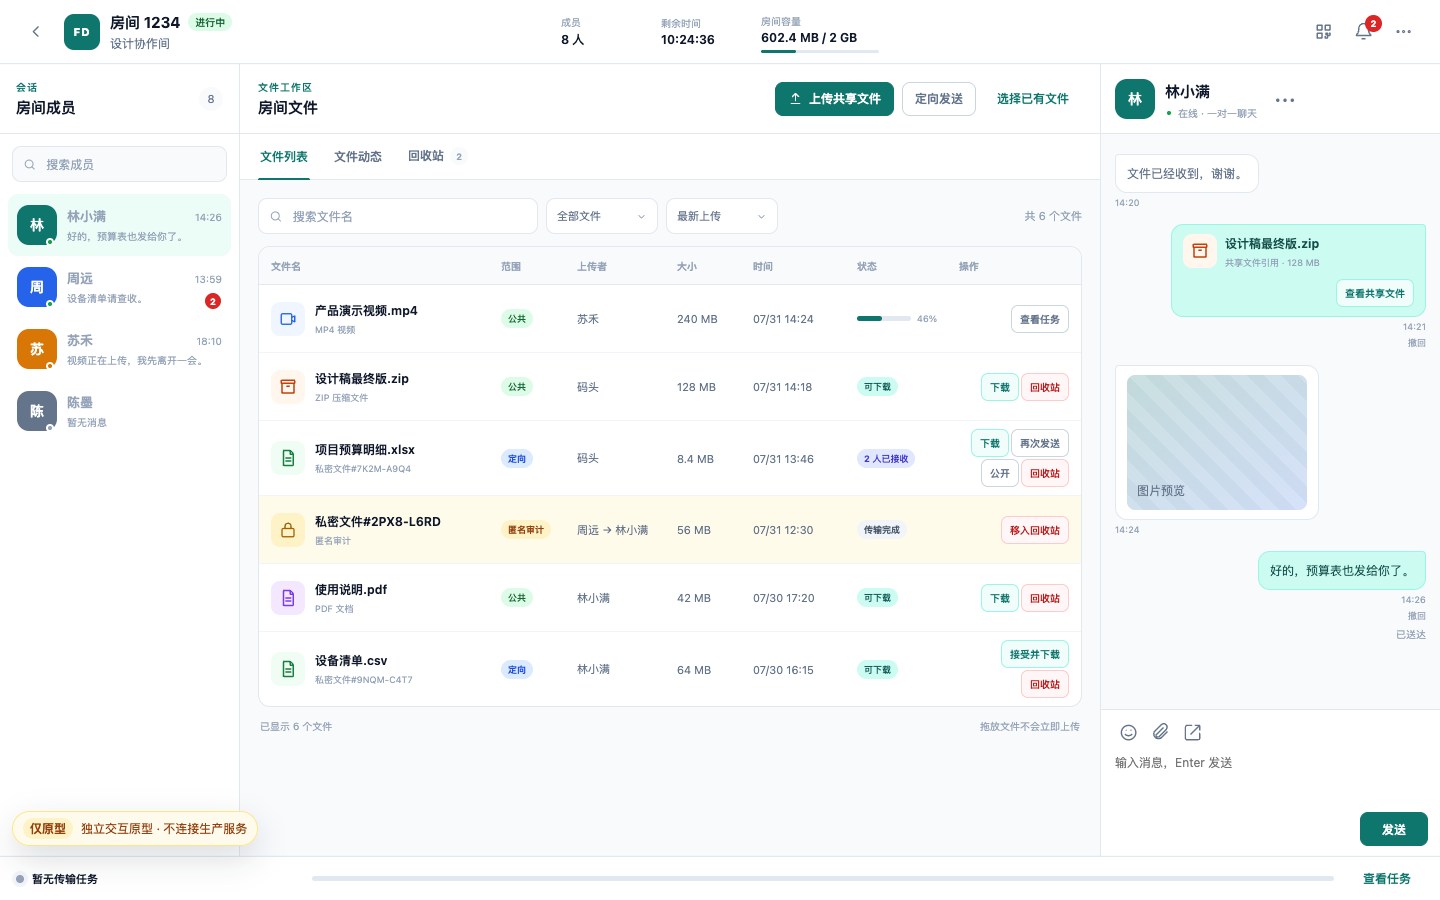
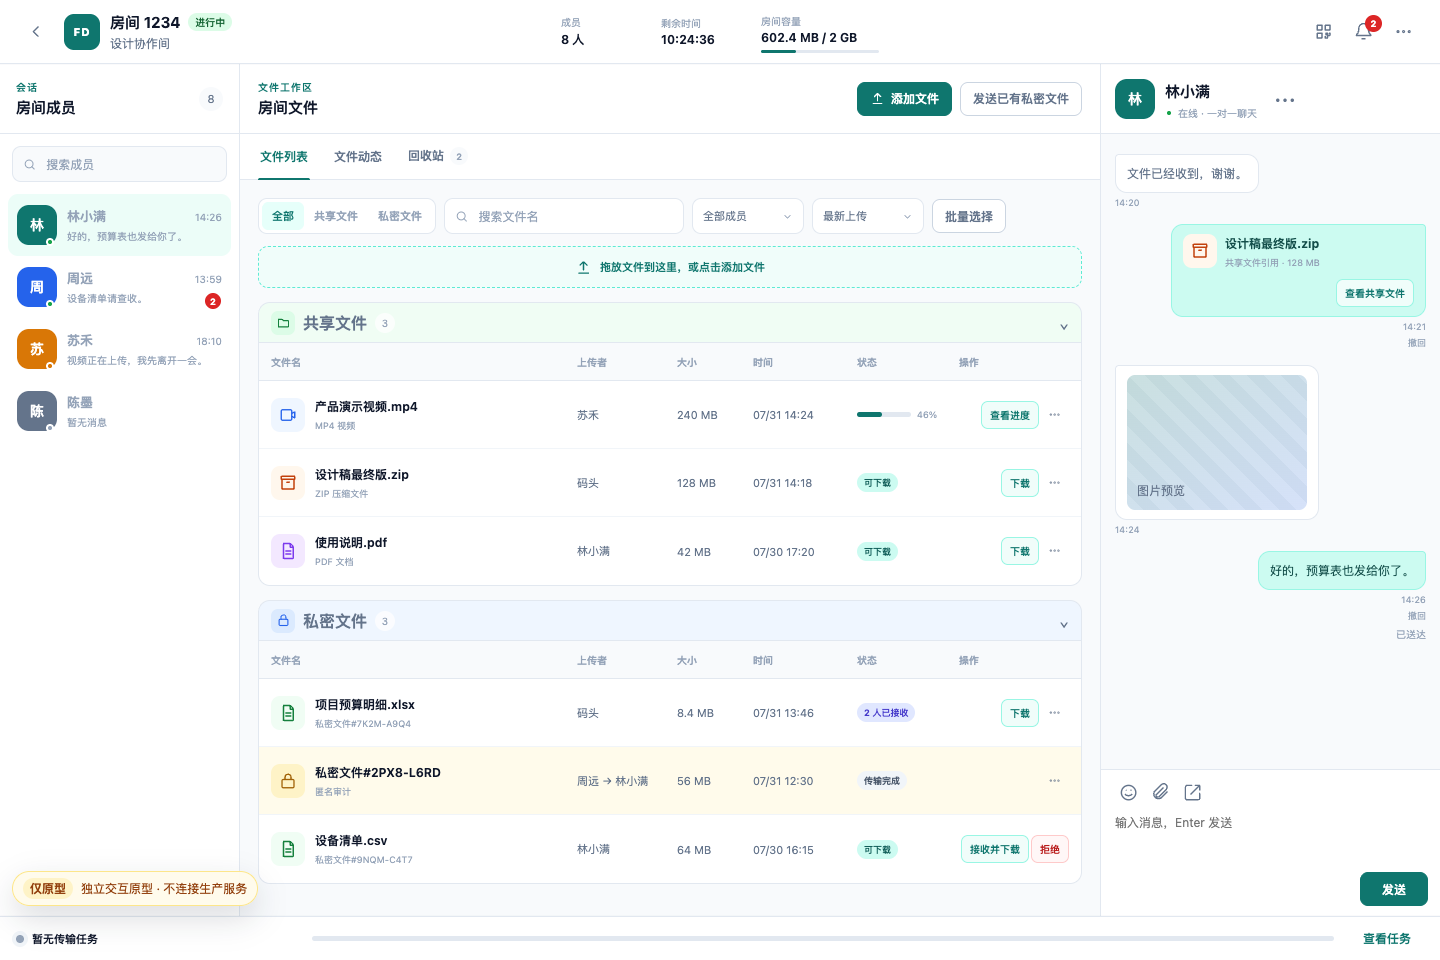
feat(prototype): 完成双语无障碍与三端验收

diff --git a/examples/room-workspace-prototype/js/i18n.js b/examples/room-workspace-prototype/js/i18n.js
@@ -11,8 +11,9 @@ const zh = {
   addEmoji: "添加表情", sendPrivateFile: "发送私密文件", referenceShared: "引用共享文件", recall: "撤回", recalledSelf: "你撤回了一条消息", recalledPeer: "对方撤回了一条消息",
   read: "已读", delivered: "已送达", sending: "发送中", sendFailed: "发送失败", imagePreview: "图片预览", sharedReference: "共享文件引用", viewShared: "查看共享文件",
   noChatTitle: "暂无消息", noChatText: "发送文字或引用共享文件开始对话。", backFiles: "返回文件", switchMember: "切换成员",
-  searchFiles: "搜索文件名", all: "全部", fileScope: "文件范围", currentRoomFiles: "当前房间文件", allFiles: "全部文件", sharedFiles: "共享文件", directFiles: "私密文件", identityFilter: "身份筛选", allMembers: "全部成员", uploadedByMe: "我上传的", sentToMe: "发给我的", batchSelect: "批量选择",
+  searchFiles: "搜索文件名", all: "全部", fileScope: "文件范围", currentRoomFiles: "当前房间文件", allFiles: "全部文件", sharedFiles: "共享文件", directFiles: "私密文件", identityFilter: "身份筛选", allMembers: "全部成员", uploader: "上传者", uploadedByMe: "我上传的", sentToMe: "发给我的", batchSelect: "批量选择",
   batchActions: "批量操作", selectedCount: "已选 {{count}} 个", batchDownload: "批量下载", batchPrivateSend: "私密发送", exitBatch: "退出批量", selectFile: "选择 {{name}}", no_selection: "请先选择文件", contains_unavailable_file: "所选文件中包含不可下载项", contains_non_reusable_private_file: "私密发送仅支持自己上传且可复用的私密文件", nextSelectRecipients: "下一步：选择接收者",
+  hiddenSelectionPrompt: "切换后部分已选文件会隐藏。确定保留隐藏选择；取消则清空选择。", batchDownloadStarted: "已开始批量接收", declinedToast: "已拒绝接收该私密文件",
   newest: "最新上传", oldest: "最早上传", sizeAsc: "大小升序", sizeDesc: "大小降序", noMatchingFiles: "没有符合条件的文件", shownFiles: "已显示 {{count}} 个文件",
   dropHint: "拖放文件不会立即上传", dropStrip: "拖放文件到这里，或点击添加文件", dropTitle: "释放文件到待发送区", dropText: "松手后仍需确认范围和接收者", timelineVisible: "{{count}} 条可见记录 · 最新优先", loadEarlier: "加载更早记录",
   recycleRetention: "文件保留至房间销毁", actualSize: "实际大小 {{size}}", chargedSize: "计费 {{size}}", recycleEmpty: "回收站为空", restore: "恢复", requestRestore: "申请恢复", requested: "已申请", approveRestore: "批准恢复", permanentDelete: "永久删除", publish: "公开", receivedCount: "{{count}} 人已接收",
@@ -21,7 +22,7 @@ const zh = {
   referenceTitle: "引用共享文件", noCapacityIncrease: "只发送引用，不增加容量", ownerManagement: "房主管理", joinRequests: "加入申请", close: "关闭", approve: "同意", reject: "拒绝",
   demo: "原型演示", demoOnly: "仅评审使用", role: "演示身份", owner: "房主", member: "普通成员", language: "语言", scenario: "页面场景", workspace: "正常工作区",
   recycleCounts: "回收站计入房间容量", freeRecycle: "回收站免费额度", injectEvent: "注入模拟事件", reset: "重置夹具", hideController: "隐藏控制器", openController: "打开原型演示控制器",
-  capacityDetails: "容量详情", sharedUsage: "公共文件", directUsage: "定向文件", reservedUsage: "上传预留", recycleActual: "回收站实际", recycleFree: "免费额度", recycleCharged: "回收站计费", totalUsed: "总占用", totalCapacity: "总容量", qrCode: "房间二维码", scanJoin: "使用同一局域网设备扫码加入", roomActions: "房间操作", roomDetails: "房间详情", extendRoom: "延长房间", dissolveRoom: "解散房间", leaveRoom: "退出房间", copyRoom: "复制房间号", copiedRoom: "房间号已复制",
+  capacityDetails: "容量详情", sharedUsage: "共享文件", directUsage: "私密文件", reservedUsage: "上传预留", recycleActual: "回收站实际", recycleFree: "免费额度", recycleCharged: "回收站计费", totalUsed: "总占用", totalCapacity: "总容量", qrCode: "房间二维码", scanJoin: "使用同一局域网设备扫码加入", roomActions: "房间操作", roomDetails: "房间详情", extendRoom: "延长房间", dissolveRoom: "解散房间", leaveRoom: "退出房间", copyRoom: "复制房间号", copiedRoom: "房间号已复制",
   joinFree: "免验证加入", pinJoin: "密码加入", approvalWait: "等待审批", dissolved: "房间已解散", kicked: "被移出房间", notFound: "房间不存在", loadError: "加载失败", emptyFiles: "空文件", emptyChat: "空聊天", emptyRecycle: "空回收站",
 };
 
@@ -38,8 +39,9 @@ const en = {
   addEmoji: "Add emoji", sendPrivateFile: "Send private file", referenceShared: "Reference shared file", recall: "Recall", recalledSelf: "You recalled a message", recalledPeer: "The other member recalled a message",
   read: "Read", delivered: "Delivered", sending: "Sending", sendFailed: "Failed", imagePreview: "Image preview", sharedReference: "Shared file reference", viewShared: "View shared file",
   noChatTitle: "No messages", noChatText: "Send text or reference a shared file to start.", backFiles: "Back to files", switchMember: "Switch member",
-  searchFiles: "Search files", all: "All", fileScope: "File scope", currentRoomFiles: "Current room files", allFiles: "All files", sharedFiles: "Shared files", directFiles: "Private files", identityFilter: "Identity filter", allMembers: "All members", uploadedByMe: "Uploaded by me", sentToMe: "Sent to me", batchSelect: "Select",
+  searchFiles: "Search files", all: "All", fileScope: "File scope", currentRoomFiles: "Current room files", allFiles: "All files", sharedFiles: "Shared files", directFiles: "Private files", identityFilter: "Identity filter", allMembers: "All members", uploader: "Uploader", uploadedByMe: "Uploaded by me", sentToMe: "Sent to me", batchSelect: "Select",
   batchActions: "Batch actions", selectedCount: "{{count}} selected", batchDownload: "Download selected", batchPrivateSend: "Send privately", exitBatch: "Exit selection", selectFile: "Select {{name}}", no_selection: "Select at least one file", contains_unavailable_file: "The selection contains files you cannot download", contains_non_reusable_private_file: "Private send only supports reusable private files uploaded by you", nextSelectRecipients: "Next: select recipients",
+  hiddenSelectionPrompt: "Some selected files will be hidden. OK keeps hidden selections; Cancel clears them.", batchDownloadStarted: "Batch download started", declinedToast: "Private file declined",
   newest: "Newest", oldest: "Oldest", sizeAsc: "Size: low to high", sizeDesc: "Size: high to low", noMatchingFiles: "No matching files", shownFiles: "Showing {{count}} files",
   dropHint: "Dropping files never uploads immediately", dropStrip: "Drop files here, or click to add files", dropTitle: "Drop files into pending area", dropText: "Scope and recipients still require confirmation", timelineVisible: "{{count}} visible events · Newest first", loadEarlier: "Load earlier events",
   recycleRetention: "Files remain until room destruction", actualSize: "Actual {{size}}", chargedSize: "Charged {{size}}", recycleEmpty: "Recycle Bin is empty", restore: "Restore", requestRestore: "Request restore", requested: "Requested", approveRestore: "Approve restore", permanentDelete: "Delete permanently", publish: "Publish", receivedCount: "Received by {{count}}",

diff --git a/examples/room-workspace-prototype/js/app.js b/examples/room-workspace-prototype/js/app.js
@@ -1,5 +1,6 @@
 import { canRestoreFile } from "./capacity.js";
 import { getDefaultComposerMode } from "./file-list.js";
+import { translate } from "./i18n.js";
 import { renderModel } from "./render.js";
 import { createStore } from "./state.js";
 
@@ -29,7 +30,7 @@ document.addEventListener("click", (event) => {
   }
   const target = event.target.closest("[data-action]");
   if (!target || target.disabled) return;
-  if (["open-upload", "open-direct", "open-existing", "open-file-actions", "open-members", "open-requests", "open-shared-reference", "show-capacity", "show-qr", "show-room-menu"].includes(target.dataset.action)) {
+  if (["open-upload", "open-direct", "open-existing", "open-file-actions", "open-reject-confirm", "open-members", "open-requests", "open-shared-reference", "show-capacity", "show-qr", "show-room-menu"].includes(target.dataset.action)) {
     lastOverlayTrigger = target;
   }
   handleAction(target.dataset.action, target);
@@ -54,7 +55,7 @@ document.addEventListener("keydown", (event) => {
   if (event.key === "Escape") {
     const state = store.getState();
     if (state.ui.composer) store.dispatch({ type: "ui/close-composer" });
-    else if (state.ui.openFileMenuId || state.ui.actionSheetFileId || state.ui.rejectFileId) store.dispatch({ type: "ui/close-file-overlays" });
+    else if (state.ui.openFileMenuId || state.ui.actionSheetFileId || state.ui.rejectFileId) closeOverlay("ui/close-file-overlays");
     else if (state.ui.modal) store.dispatch({ type: "ui/close-modal" });
     else if (state.ui.drawer) store.dispatch({ type: "ui/close-drawer" });
   }
@@ -70,6 +71,22 @@ document.addEventListener("keydown", (event) => {
     next.focus();
     store.dispatch({ type: "ui/set-tab", value: next.dataset.tab });
   }
+  if (event.target.matches('.file-scope-switch [role="radio"]') && (event.key === "ArrowLeft" || event.key === "ArrowRight")) {
+    event.preventDefault();
+    const scopes = [...document.querySelectorAll('.file-scope-switch [role="radio"]')];
+    const offset = event.key === "ArrowRight" ? 1 : -1;
+    const next = scopes[(scopes.indexOf(event.target) + offset + scopes.length) % scopes.length];
+    store.dispatch({ type: "ui/set-file-scope-view", value: next.dataset.scope });
+    window.setTimeout(() => document.querySelector(`.file-scope-switch [data-scope="${next.dataset.scope}"]`)?.focus(), 0);
+  }
+  if (event.target.closest('[role="menu"]') && ["ArrowDown", "ArrowUp", "Home", "End"].includes(event.key)) {
+    event.preventDefault();
+    const items = [...event.target.closest('[role="menu"]').querySelectorAll('[role="menuitem"]')];
+    const current = items.indexOf(event.target);
+    const index = event.key === "Home" ? 0 : event.key === "End" ? items.length - 1 : (current + (event.key === "ArrowDown" ? 1 : -1) + items.length) % items.length;
+    items[index]?.focus();
+  }
+  trapOverlayFocus(event);
 });
 
 document.addEventListener("change", (event) => {
@@ -156,22 +173,30 @@ function handleAction(action, target) {
       eventId: uniqueId("event"),
     }));
     store.dispatch({ type: "ui/exit-batch-mode" });
-    return showToast(localized(state, "已开始批量接收", "Batch download started"));
+    return showToast(translate(state.ui.language, "batchDownloadStarted"));
   }
   if (action === "batch-private-send") {
     return store.dispatch({ type: "ui/open-composer", mode: "direct", existingFileIds: [...state.ui.selectedFileIds] });
   }
   if (action === "open-file-actions") {
-    if (window.innerWidth < 768) return store.dispatch({ type: "ui/open-action-sheet", value: target.dataset.fileId });
+    if (window.innerWidth < 768) {
+      store.dispatch({ type: "ui/open-action-sheet", value: target.dataset.fileId });
+      return focusFirstOverlayControl();
+    }
     const value = state.ui.openFileMenuId === target.dataset.fileId ? null : target.dataset.fileId;
-    return store.dispatch({ type: "ui/open-file-menu", value });
+    store.dispatch({ type: "ui/open-file-menu", value });
+    if (value) window.setTimeout(() => document.querySelector('.file-action-menu [role="menuitem"]')?.focus(), 0);
+    return;
   }
   if (action === "close-file-overlays") return closeOverlay("ui/close-file-overlays");
-  if (action === "open-reject-confirm") return store.dispatch({ type: "ui/open-reject-confirm", value: target.dataset.fileId });
+  if (action === "open-reject-confirm") {
+    store.dispatch({ type: "ui/open-reject-confirm", value: target.dataset.fileId });
+    return focusFirstOverlayControl();
+  }
   if (action === "confirm-decline") {
     store.dispatch({ type: "files/decline", fileId: target.dataset.fileId, ...common });
     store.dispatch({ type: "ui/close-file-overlays" });
-    return showToast(localized(state, "已拒绝接收该私密文件", "Private file declined"));
+    return showToast(translate(state.ui.language, "declinedToast"));
   }
   if (action === "file-menu-action") {
     store.dispatch({ type: "ui/close-file-overlays" });
@@ -295,7 +320,7 @@ function resolveHiddenBatchSelection(isVisible) {
   if (!state.ui.batchMode || !state.ui.selectedFileIds.length) return;
   const hidden = state.files.some((file) => state.ui.selectedFileIds.includes(file.id) && !isVisible(file));
   if (!hidden) return;
-  const preserve = window.confirm(localized(state, "切换后部分已选文件会隐藏。确定保留隐藏选择；取消则清空选择。", "Some selected files will be hidden. OK keeps hidden selections; Cancel clears them."));
+  const preserve = window.confirm(translate(state.ui.language, "hiddenSelectionPrompt"));
   if (!preserve) store.dispatch({ type: "ui/set-file-selection", value: [] });
 }
 
@@ -450,6 +475,27 @@ function formatCompactBytes(bytes) {
 }
 
 function closeOverlay(type) {
+  const action = lastOverlayTrigger?.dataset.action;
+  const fileId = lastOverlayTrigger?.dataset.fileId;
   store.dispatch({ type });
-  window.setTimeout(() => lastOverlayTrigger?.focus(), 0);
+  window.setTimeout(() => {
+    const selector = fileId ? `[data-action="${action}"][data-file-id="${fileId}"]` : action ? `[data-action="${action}"]` : null;
+    (selector ? document.querySelector(selector) : null)?.focus();
+  }, 0);
+}
+
+function focusFirstOverlayControl() {
+  window.setTimeout(() => document.querySelector('#auxiliary-root [role="dialog"] button, #auxiliary-root [role="alertdialog"] button')?.focus(), 0);
+}
+
+function trapOverlayFocus(event) {
+  if (event.key !== "Tab") return;
+  const overlay = document.querySelector('#auxiliary-root [role="dialog"], #auxiliary-root [role="alertdialog"], #prototype-overlay-root [role="dialog"]');
+  if (!overlay) return;
+  const controls = [...overlay.querySelectorAll('button:not([disabled]), input:not([disabled]), select:not([disabled]), textarea:not([disabled])')];
+  if (!controls.length) return;
+  const first = controls[0];
+  const last = controls.at(-1);
+  if (event.shiftKey && document.activeElement === first) { event.preventDefault(); last.focus(); }
+  else if (!event.shiftKey && document.activeElement === last) { event.preventDefault(); first.focus(); }
 }

diff --git a/examples/room-workspace-prototype/js/render.js b/examples/room-workspace-prototype/js/render.js
@@ -325,12 +325,12 @@ function renderTimelineEvent(event, state) {
   const name = file.visibility === "anonymous" ? t(state, "privateFile", { alias: file.alias }) : file.name;
   const labels = state.ui.language === "en" ? {
     upload_started: "started uploading", upload_completed: "uploaded", upload_progress: "is uploading", upload_failed: "upload failed",
-    direct_sent: "sent privately", resent: "sent again from history", download_started: "started receiving", download_completed: "completed transfer",
+    direct_sent: "sent privately", direct_declined: "declined", resent: "sent again from history", download_started: "started receiving", download_completed: "completed transfer",
     recycled: "moved to Recycle Bin", restore_requested: "requested restore", restored: "restored", restore_approved: "approved restore",
     permanently_deleted: "deleted permanently", published_shared: "published to shared files",
   } : {
     upload_started: "开始上传", upload_completed: "完成上传", upload_progress: "正在上传", upload_failed: "上传失败",
-    direct_sent: "定向发送", resent: "从历史文件再次发送", download_started: "开始接收", download_completed: "传输完成",
+    direct_sent: "私密发送", direct_declined: "拒绝接收", resent: "从历史文件再次发送", download_started: "开始接收", download_completed: "传输完成",
     recycled: "移入回收站", restore_requested: "申请恢复", restored: "恢复文件", restore_approved: "批准恢复",
     permanently_deleted: "永久删除", published_shared: "发布到共享目录",
   };
@@ -380,7 +380,7 @@ function renderCommonRow(file, state, permissions, actions) {
   const checkbox = state.ui.batchMode ? `<input class="file-select-checkbox" data-input="file-selection" data-file-id="${escapeHTML(file.id)}" type="checkbox" ${selected ? "checked" : ""} aria-label="${t(state, "selectFile", { name: displayName })}">` : "";
   return `<article class="file-row${anonymous ? " file-row--private-audit" : ""}${selected ? " is-selected" : ""}" role="row" data-file-id="${escapeHTML(file.id)}">
     <div class="file-cell file-cell--name" role="cell">${checkbox}<span class="file-icon file-icon--${escapeHTML(file.kind ?? "document")}">${fileIcon(file.kind)}</span><div><strong>${escapeHTML(displayName ?? "")}</strong><small>${escapeHTML(secondary ?? "")}</small><span class="scope-tag mobile-scope-tag scope-tag--${anonymous ? "private" : file.scope}">${t(state, anonymous ? "privateAudit" : file.scope)}</span></div></div>
-    <div class="file-cell file-cell--owner" role="cell">${escapeHTML(ownerLabel)}</div>
+    <div class="file-cell file-cell--owner" role="cell" data-label="${t(state, "uploader")}">${escapeHTML(ownerLabel)}</div>
     <div class="file-cell file-cell--size" role="cell">${formatBytes(file.sizeBytes)}</div>
     <div class="file-cell file-cell--time" role="cell">${formatTimestamp(file.recycledAt ?? file.createdAt, locale)}</div>
     <div class="file-cell file-cell--status" role="cell">${renderStatus(file, locale)}</div>

diff --git a/examples/room-workspace-prototype/styles.css b/examples/room-workspace-prototype/styles.css
@@ -2686,7 +2686,7 @@ button.member-item.is-active {
 
   .file-cell--owner::before {
     color: var(--color-text-muted);
-    content: "上传者：";
+    content: attr(data-label) ": ";
   }
 
   .mobile-file-actions {

diff --git a/examples/room-workspace-prototype/README.md b/examples/room-workspace-prototype/README.md
@@ -2,6 +2,8 @@
 
 用于评审新版房间工作区布局与业务可见性，不属于生产前端。对应规格：
 [docs/plan/2026-07-31-room-workspace-prototype.md](../../docs/plan/2026-07-31-room-workspace-prototype.md)。
+文件列表交互优化另见
+[docs/plan/2026-07-31-room-file-list-ux.md](../../docs/plan/2026-07-31-room-file-list-ux.md)。
 
 ## 隔离边界
 
@@ -30,12 +32,14 @@ bun test examples/room-workspace-prototype/tests
 
 ## 主要演示流程
 
-1. 点击“上传共享文件”或“定向发送”，选择文件后进入待发送区。
-2. 切换共享／定向范围；定向模式可选择多个接收者。
-3. 点击“选择已有文件”复用自己上传的私密文件，不重复增加容量。
-4. 在“文件列表／文件动态／回收站”间切换，演示下载、公开、回收、恢复与永久删除。
-5. 点击成员切换一对一聊天；支持文字、表情、私密文件和共享文件引用。
-6. 移动端默认展示文件；顶栏聊天入口打开全屏二级聊天页。
+1. 在“全部／共享文件／私密文件”间切换；全部视图可分别折叠两个文件分组。
+2. 点击“添加文件”或常驻拖放条，选择文件后再确认共享／私密范围与接收者。
+3. 点击“发送已有私密文件”，多选自己上传的文件和新接收者，不重复增加容量。
+4. 普通文件直接下载；低频操作位于三个点菜单；待接收私密文件直接接收或拒绝。
+5. 点击“批量选择”后跨组选择文件；全部文件共同满足权限时才可批量下载或私密发送。
+6. 在“文件列表／文件动态／回收站”间切换；任一视图均可拖入文件并在取消后返回原视图。
+7. 移动端三个点打开底部操作面板；进入批量模式后固定上传栏替换为批量操作栏。
+8. 点击成员切换一对一聊天；支持文字、表情、私密文件和共享文件引用。
 
 ## 原型演示控制器
 
@@ -56,7 +60,9 @@ bun test examples/room-workspace-prototype/tests
 - 私密文件仅发送者与接收者完整可见；无关普通成员完全不可见。
 - 房主对无关私密文件只看到稳定别名、参与者、大小、状态和时间，不能下载。
 - 文件列表、动态和回收站复用同一权限投影。
-- 房主容量详情含公共、私密、上传预留和回收站细分；普通成员只见总量。
+- 房主容量详情含共享、私密、上传预留和回收站细分；普通成员只见总量。
+- 默认文件列表不显示复选框；批量操作严格采用全部已选文件的共同权限。
+- 房主匿名私密投影只能按稳定编号搜索，隐藏原名不会命中搜索。
 - 回收站计入时免费额度无效；不计入时只有超出免费额度部分占房间容量。
 - 房主强制回收的文件由上传者申请恢复；房主审批；恢复前检查容量。
 - 已读与下载状态分离；页面隐藏时不自动标记聊天已读。
@@ -83,6 +89,7 @@ room-workspace-prototype/
 ├── js/
 │   ├── app.js
 │   ├── capacity.js
+│   ├── file-list.js
 │   ├── i18n.js
 │   ├── mock-data.js
 │   ├── permissions.js
@@ -90,6 +97,7 @@ room-workspace-prototype/
 │   └── state.js
 └── tests/
     ├── capacity.test.js
+    ├── file-list.test.js
     ├── i18n.test.js
     └── permissions.test.js
 ```
